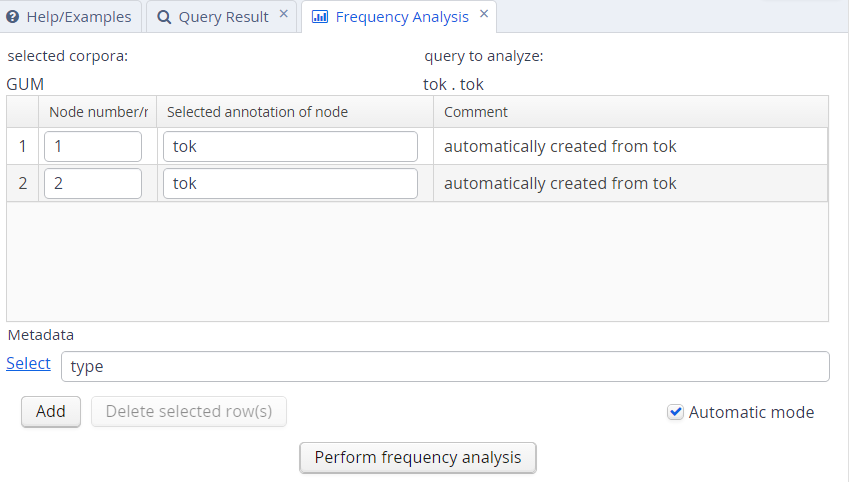
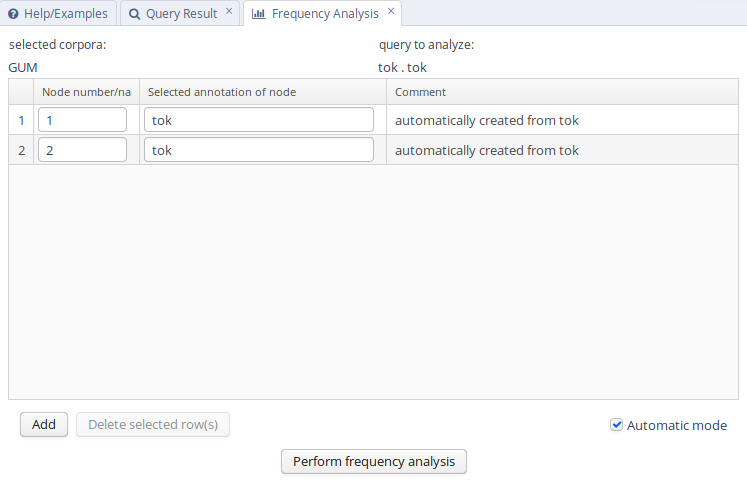
Frequency definition now looks differently

diff --git a/docs/src/mdbook/user-guide/src/aql-frequency.md b/docs/src/mdbook/user-guide/src/aql-frequency.md
@@ -17,8 +17,7 @@ tok . tok
 
 ![](images/freq.png)
 
-You may also add metadata to the frequency breakdown from the metadata
-selection link. Clicking on “Perform frequency analysis” will produce a
+Clicking on “Perform frequency analysis” will produce a
 breakdown of all consecutive token bigrams in the corpus. The frequency
 graph will only show the first 500 elements, but the table below it will
 give the entire list of values, which can also be **exported as a CSV
